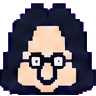
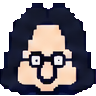
fix: 스프라이트 보라 헤일로 제거(임계+1px 침식), ESC=메인화면, 하단 가이드 UI 제거, 방 바닥 정리
Claude-Session: https://claude.ai/code/session_0173R7AzhtFaZ964wi63biMu

diff --git a/src/main.js b/src/main.js
@@ -79,6 +79,21 @@ class Game {
     }
   }
 
+  /** ESC: 메인(타이틀)으로 */
+  toTitle() {
+    this.transitioning = true;
+    this.sound.stopBgm(0.4); this.sound.stopIntro(0.2);
+    this.dialogue.script = null; this.dialogue.wait = null; this.textbox.close();
+    this.background = []; this.curtain = null; this.caption = null; this.shake = null;
+    this.fadeTo(1, 0.4, () => {
+      this.flags = {}; this.inventory = [];
+      this.changeMap('room', 'bed', true);
+      this.state = 'title'; this.title.enter();
+      this.transitioning = false;
+      this.fadeTo(0, 0.3);
+    }, 'black');
+  }
+
   setPlayerSprite(name) {
     this.playerSprite = name;
     this.player.setSprite(name);
@@ -163,6 +178,7 @@ class Game {
     this.time += dt;
     Input.poll();
     if (Input.just('debug')) this.debug = !this.debug;
+    if (Input.just('title') && this.state !== 'title' && !this.transitioning) { this.toTitle(); return; }
     this.textbox.charDelay = TEXT_SPEEDS[this.settings.textSpeed].delay;
     this.sound.muted = !this.settings.sound;
 
@@ -323,14 +339,14 @@ class Game {
 }
 
 // ── 부트 ────────────────────────────────────────────────────
-export const BUILD = '2026-09-08.11';
+export const BUILD = '2026-09-08.13';
 const canvas = document.getElementById('screen');
 const game = new Game(canvas);
 window.game = game;   // 콘솔 디버깅용
 
 function resize() {
   // 0.5 단위 CSS 배율 (레티나에선 0.5 도 정수 픽셀). 최소 2 = 640x480
-  const raw = Math.min(innerWidth / SCREEN_W, (innerHeight - 24) / SCREEN_H);
+  const raw = Math.min(innerWidth / SCREEN_W, innerHeight / SCREEN_H);
   const s = Math.max(1, Math.floor(raw * 2) / 2);
   canvas.style.width = SCREEN_W * s + 'px';
   canvas.style.height = SCREEN_H * s + 'px';

diff --git a/src/core/input.js b/src/core/input.js
@@ -5,7 +5,8 @@ const KEYMAP = {
   ArrowLeft: 'left', KeyA: 'left',
   ArrowRight: 'right', KeyD: 'right',
   KeyC: 'confirm', Enter: 'confirm', Space: 'confirm', KeyZ: 'confirm',
-  KeyX: 'cancel', Escape: 'cancel', ShiftLeft: 'cancel', ShiftRight: 'cancel',
+  KeyX: 'cancel', ShiftLeft: 'cancel', ShiftRight: 'cancel',
+  Escape: 'title',
   F1: 'debug',
   KeyV: 'menu', Tab: 'menu',
   KeyT: 'test',

diff --git a/index.html b/index.html
@@ -13,9 +13,6 @@
   <div id="stage">
     <canvas id="screen" width="320" height="240"></canvas>
   </div>
-  <div id="help">
-    이동 <b>방향키 / WASD</b> · 확인 <b>C</b> · 취소·천천히 <b>X</b> · 메뉴 <b>V</b> · 디버그 <b>F1</b> · 게임패드 지원
-  </div>
   <script type="module" src="src/main.js"></script>
 </body>
 </html>

diff --git a/css/style.css b/css/style.css
@@ -22,9 +22,3 @@ html, body {
 }
 
 
-#help {
-  position: fixed; left: 0; right: 0; bottom: 6px;
-  text-align: center; font-size: 11px; color: #55556b;
-  pointer-events: none; user-select: none;
-}
-#help b { color: #9a9ab5; }

diff --git a/tools/sprites/slice_sheet.py b/tools/sprites/slice_sheet.py
@@ -46,7 +46,11 @@ def key_cell(cell):
                            cell[2:14, -14:-2].reshape(-1, 3), cell[-14:-2, -14:-2].reshape(-1, 3)])
     bg = np.median(edge, 0)
     d = np.abs(cell - bg).sum(2)
-    alpha = (d > 55).astype(float)               # 하드 누끼: 보라 배경은 완전 제거, 캐릭터 색은 손대지 않음
+    alpha = (d > 90)                              # 하드 누끼 (보라 배경 + 흐린 헤일로 제거)
+    # 1px 침식: 외곽선 바깥의 보라빛 번짐 픽셀을 떼어낸다
+    er = alpha.copy()
+    er[1:, :] &= alpha[:-1, :]; er[:-1, :] &= alpha[1:, :]; er[:, 1:] &= alpha[:, :-1]; er[:, :-1] &= alpha[:, 1:]
+    alpha = er.astype(float)
     rgb = cell.copy()
     rgb[alpha == 0] = 0                           # 투명 픽셀 색을 0으로 → 축소 시 보라가 섞이지 않음
     rgba = np.dstack([rgb, (alpha * 255)]).astype('uint8')
